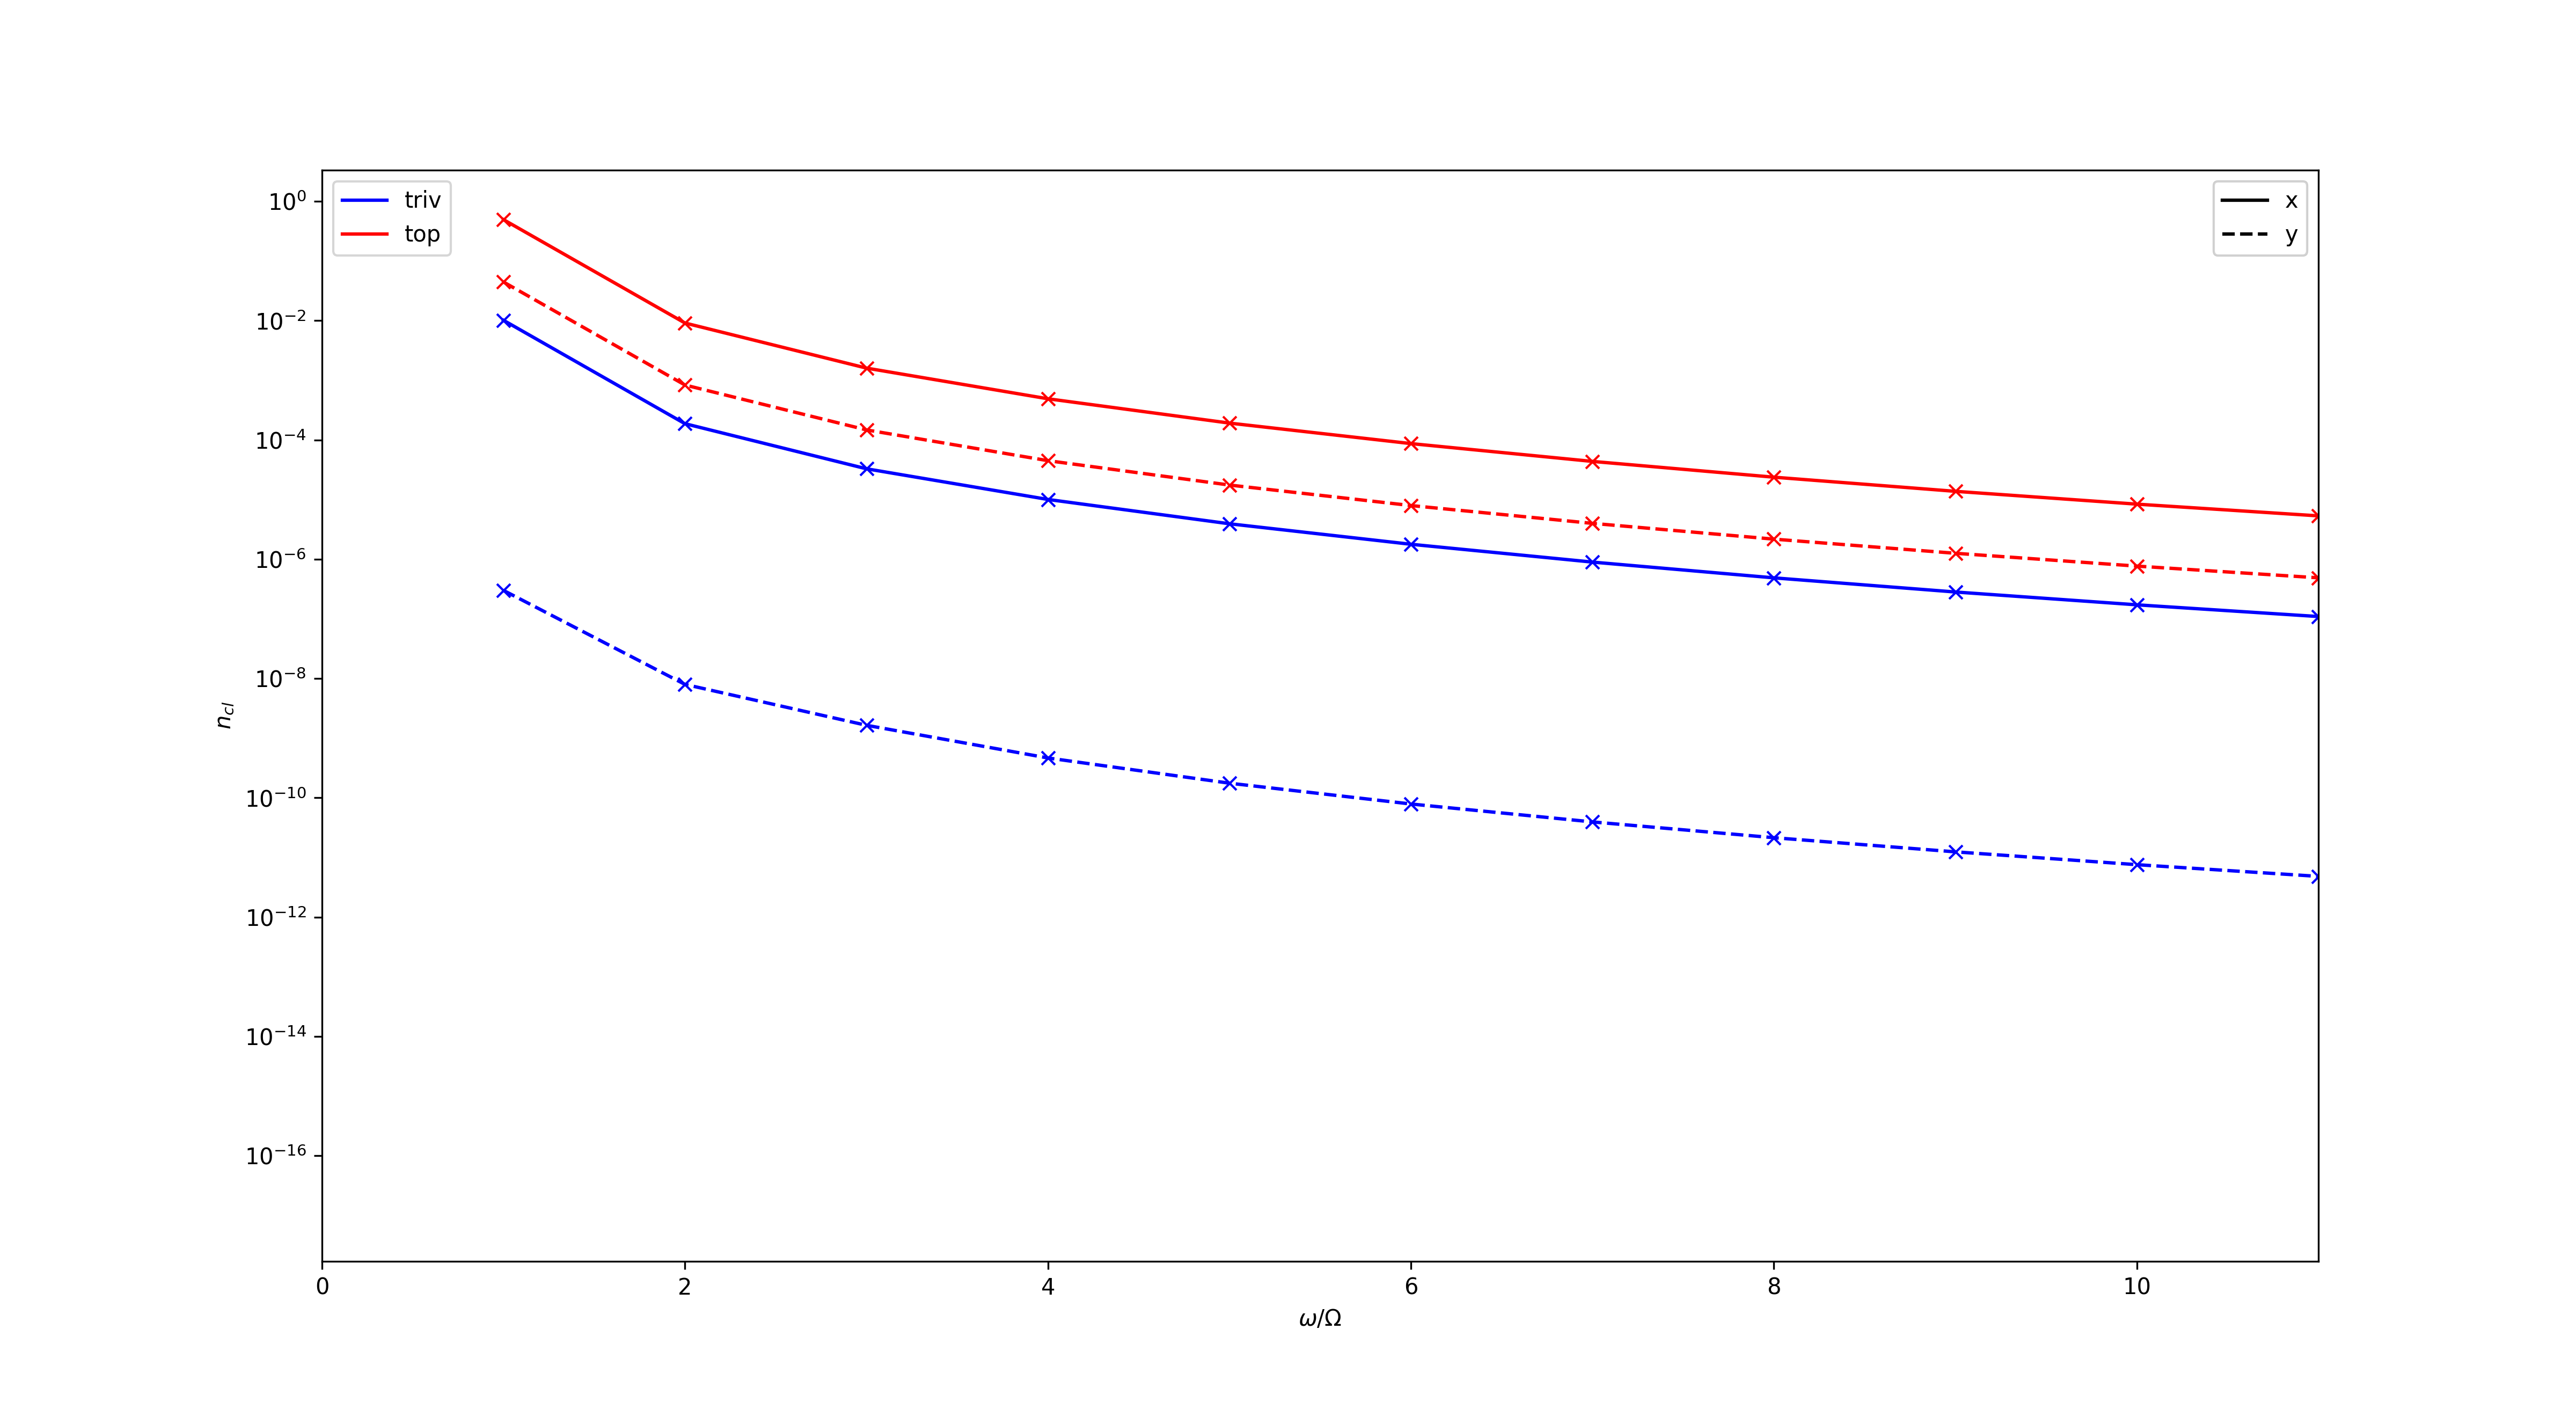
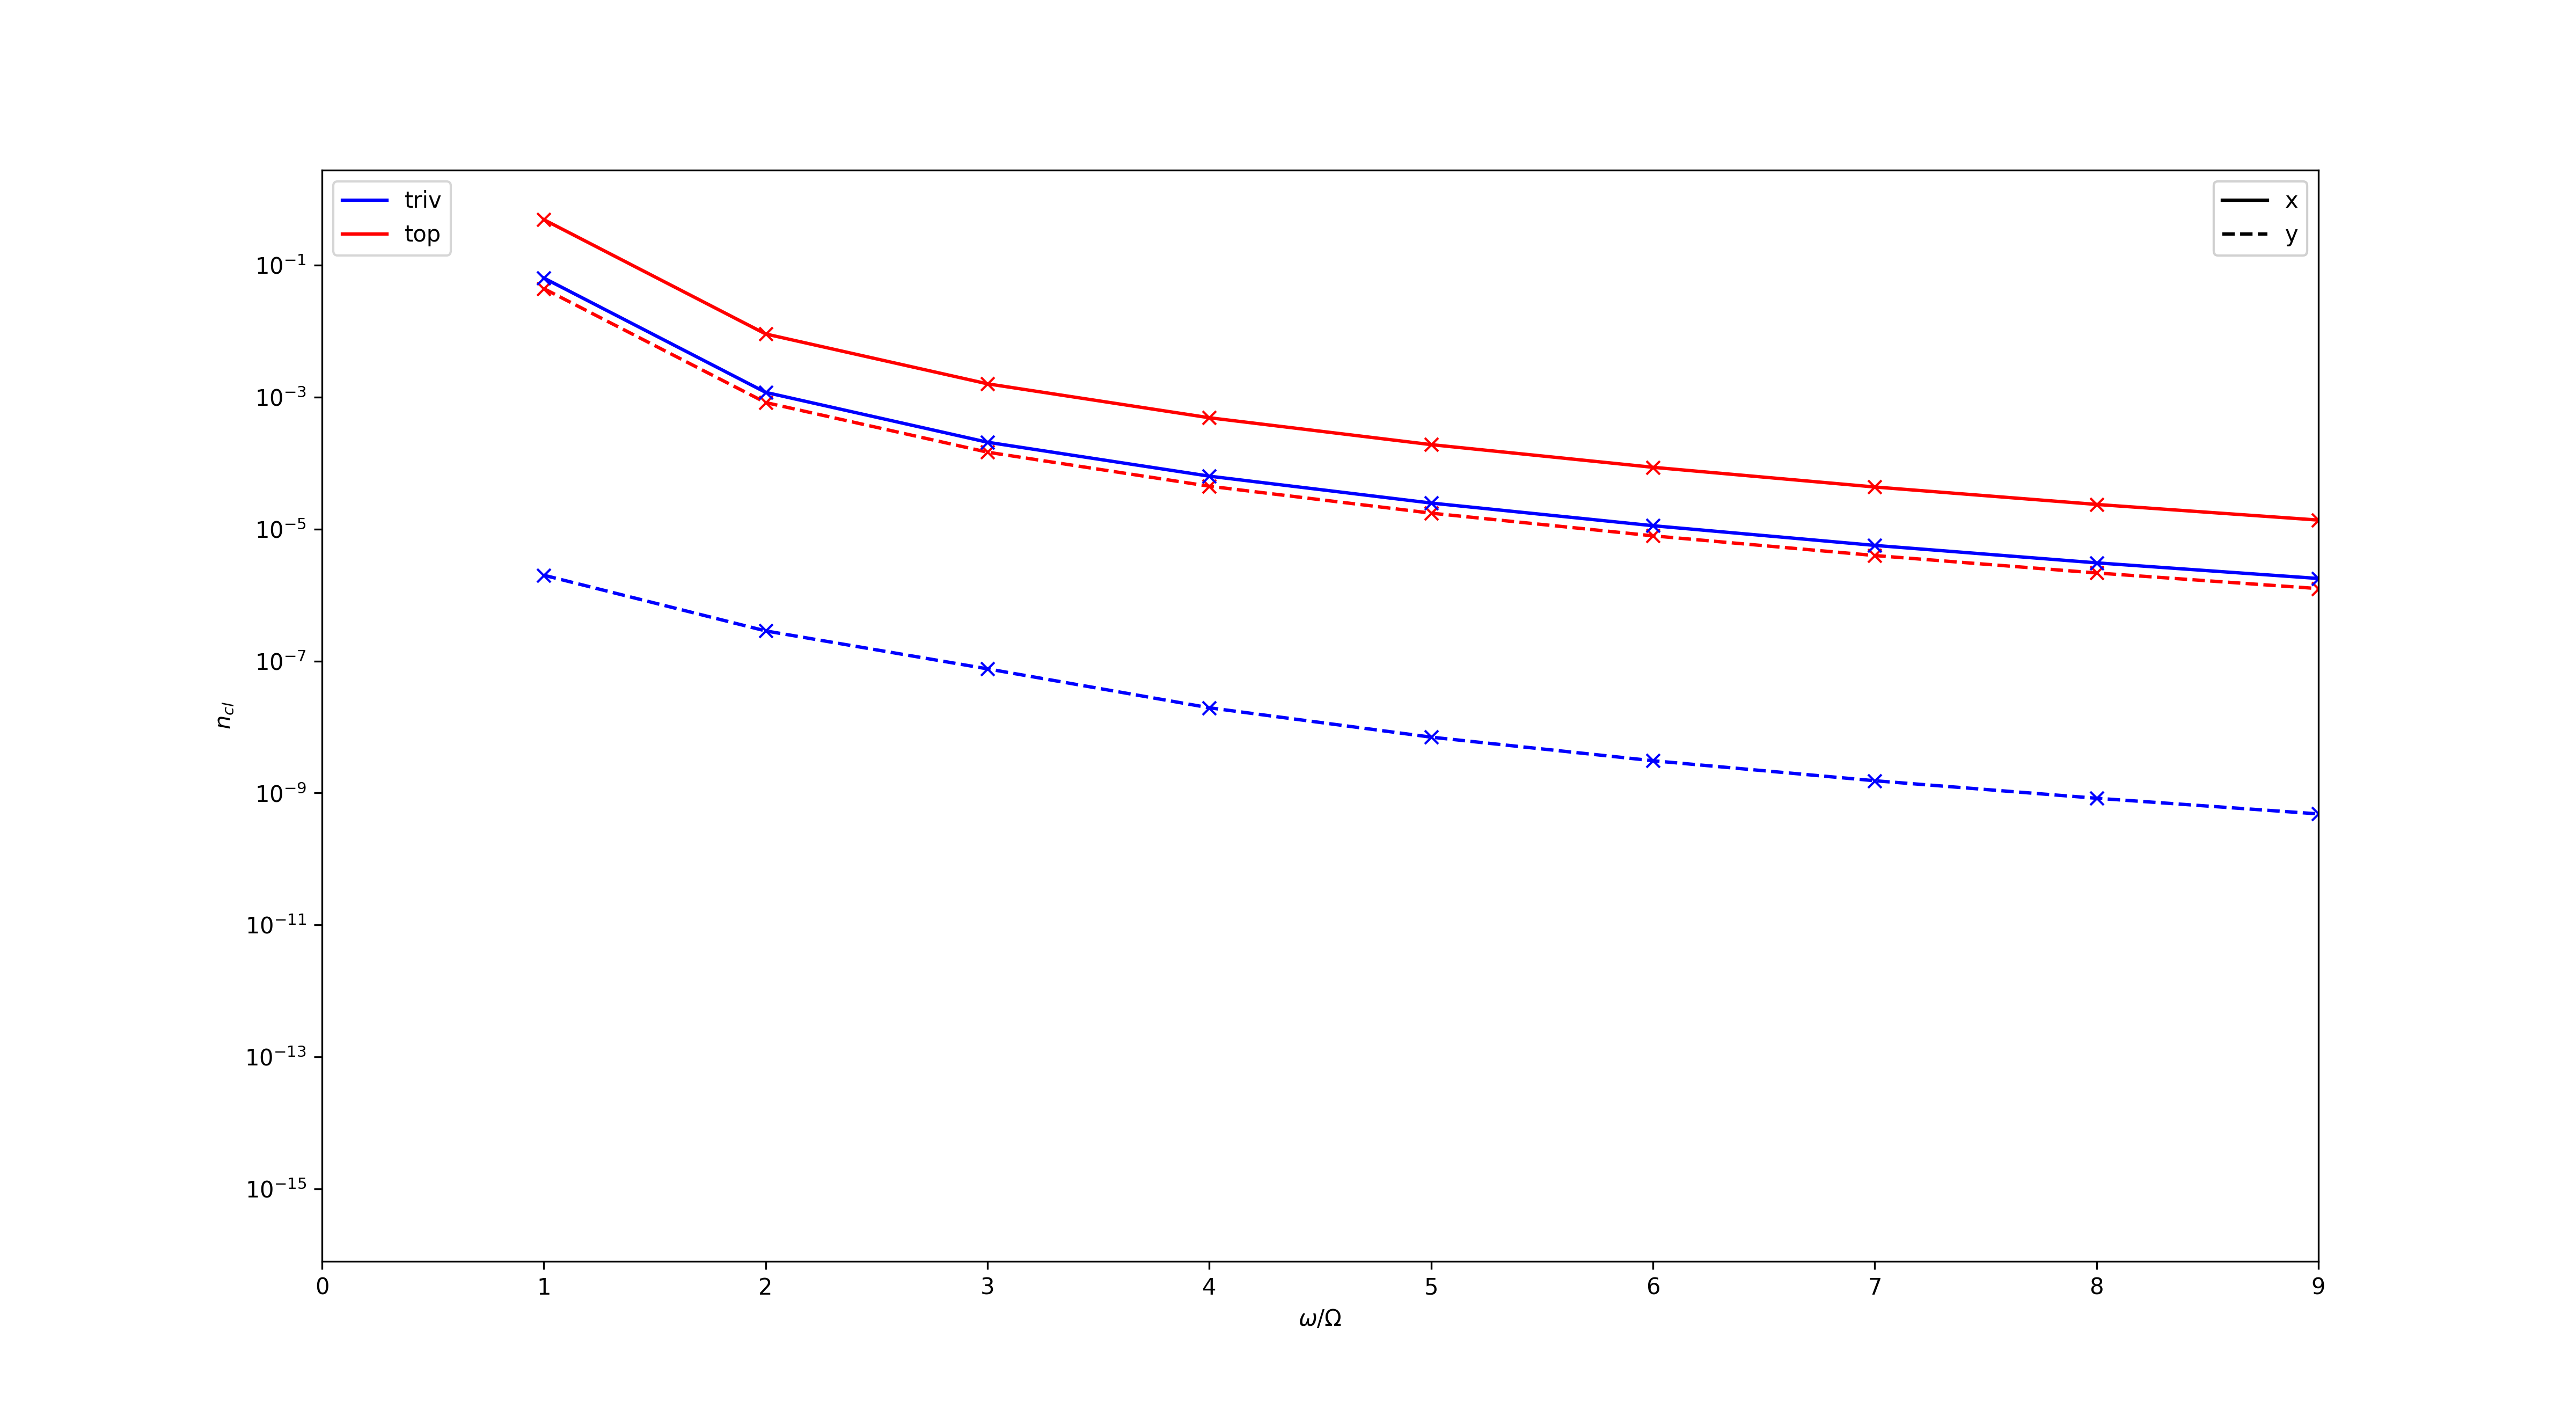
Calculated the plots for A0 = 0.2 and A0 = 0.5 at k=61 for Denis.

diff --git a/chern_insulator/src/plots.py b/chern_insulator/src/plots.py
@@ -3,8 +3,8 @@ import matplotlib.pyplot as plt
 from matplotlib.lines import Line2D
 from config.paths import DATA_DIR, PLOTTING_DIR, STYLESHEET
 
-axes, one_current = np.load(DATA_DIR / "D=1.0, k=31.npy", allow_pickle = True)
-_, three_current = np.load(DATA_DIR / "D=3.0, k=31.npy", allow_pickle = True)
+axes, one_current = np.load(DATA_DIR / "D=1.0, k=61.npy", allow_pickle = True)
+_, three_current = np.load(DATA_DIR / "D=3.0, k=61.npy", allow_pickle = True)
 maxN = 50
 
 plt.style.use(STYLESHEET)
@@ -30,10 +30,10 @@ plt.gca().add_artist(legend1)  # needed so the first legend isn't overwritten
 legend2 = plt.legend(handles=style_handles, loc='upper right')
 plt.gca().add_artist(legend2)
 
-plt.xlim((0, 21))
+plt.xlim((0, 9))
 plt.xlabel(r"$\omega / \Omega$")
 plt.ylabel(r"$g_2(0)$")
-plt.yscale('log')
+# plt.yscale('log')
 plt.savefig(PLOTTING_DIR / "g2(0).png", dpi=300)
 plt.show()
 
@@ -58,7 +58,7 @@ plt.gca().add_artist(legend1)  # needed so the first legend isn't overwritten
 legend2 = plt.legend(handles=style_handles, loc='upper right')
 plt.gca().add_artist(legend2)
 
-plt.xlim((0, 11))
+plt.xlim((0, 9))
 plt.xlabel(r"$\omega / \Omega$")
 plt.ylabel(r"$n_{cl}$")
 plt.yscale('log')

diff --git a/chern_insulator/src/main.py b/chern_insulator/src/main.py
@@ -111,7 +111,7 @@ def main() -> None:
 
     params = EnsembleParameters(
         delta = delta,
-        drivingAmp = 0.2,
+        drivingAmp = 0.5,
         decayConstant = 0.2,
         maxN = 50
     )
@@ -134,7 +134,7 @@ def main() -> None:
     # plot.PlotSingleTime(-np.pi / 4, -np.pi / 8, tMax = 10, overplotNumericalSolution=True)
     # plot.PlotDoubleTimeCorrelation(np.pi / 4, np.pi / 8)
     # plot.PlotDoubleTimeCurrent()
-    plot.PlotTotalCurrent(overplotLengthGauge=False)
+    # plot.PlotTotalCurrent(overplotLengthGauge=False)
     # plot.PlotTotalCurrentFFT(linearScale=False, overplotLengthGauge=False)
     # plot.PlotIntegratedSecondOrderCurrent()
 